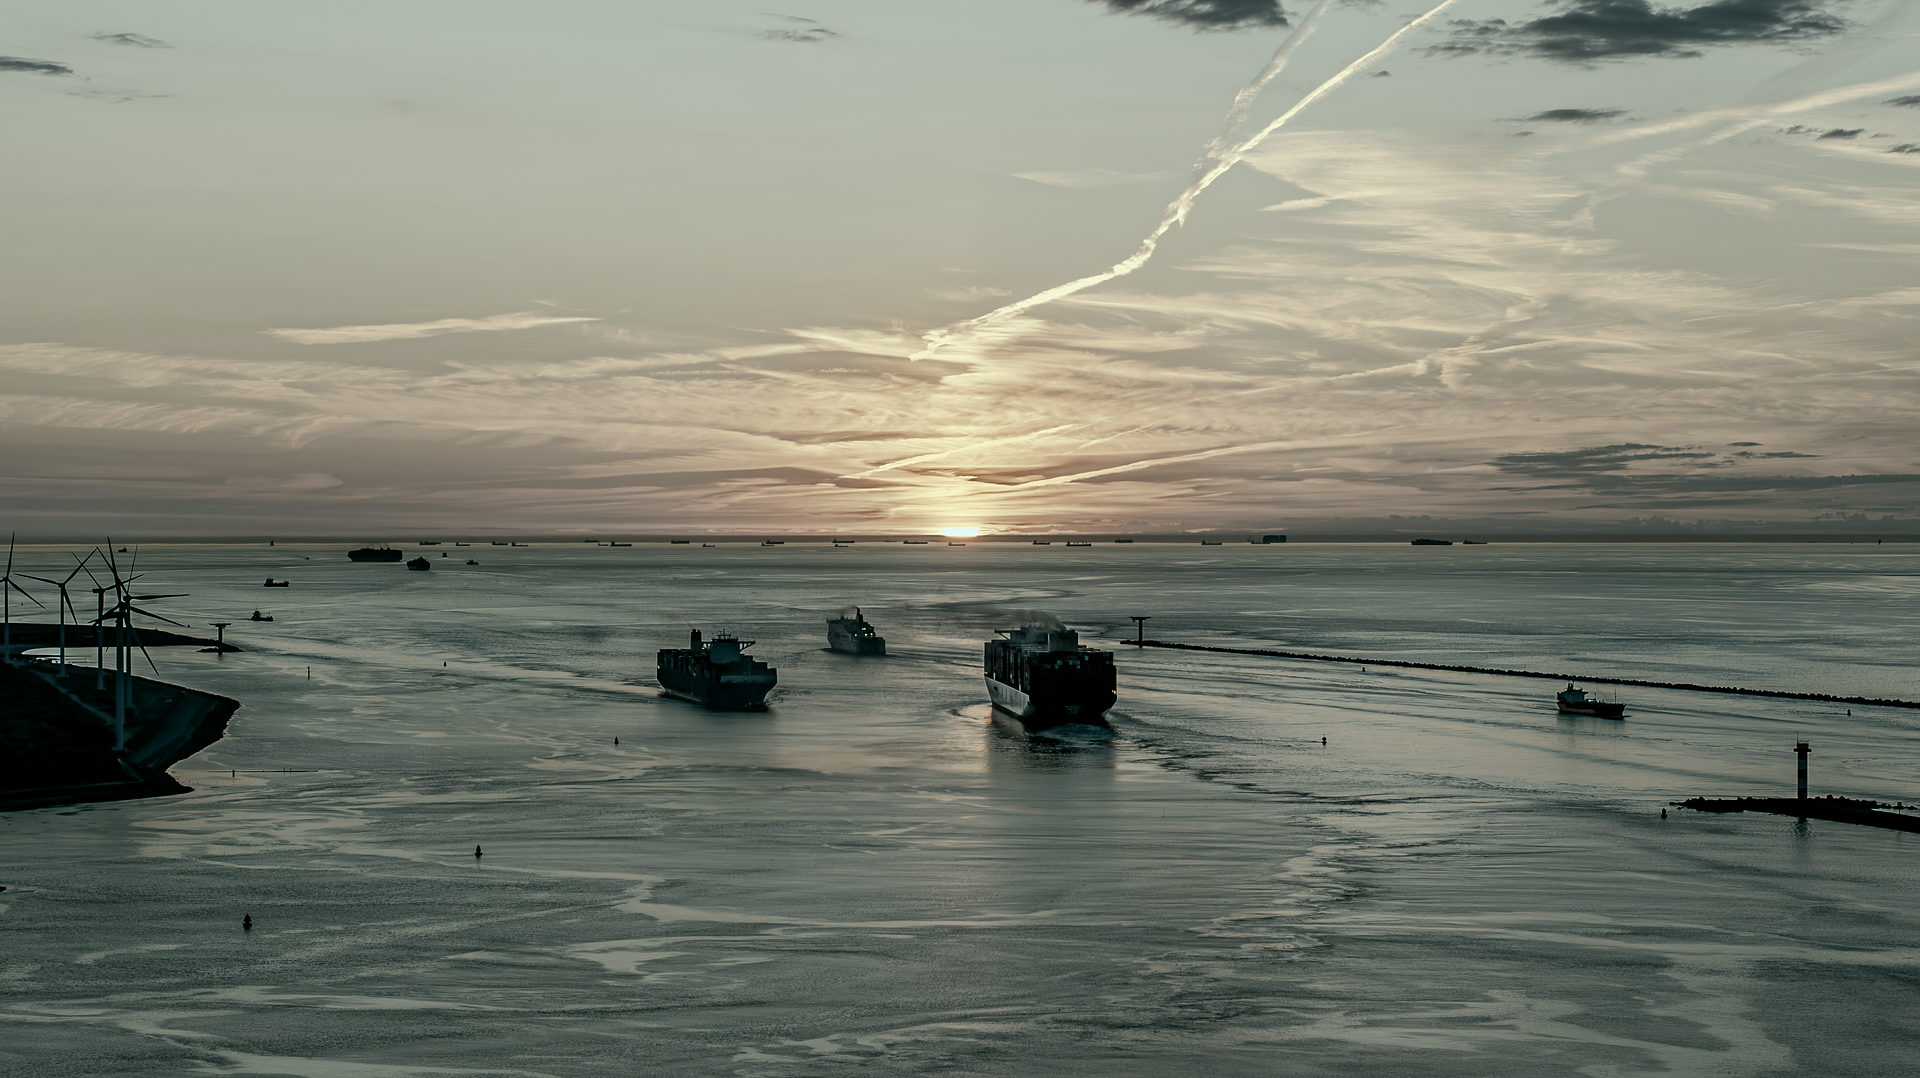
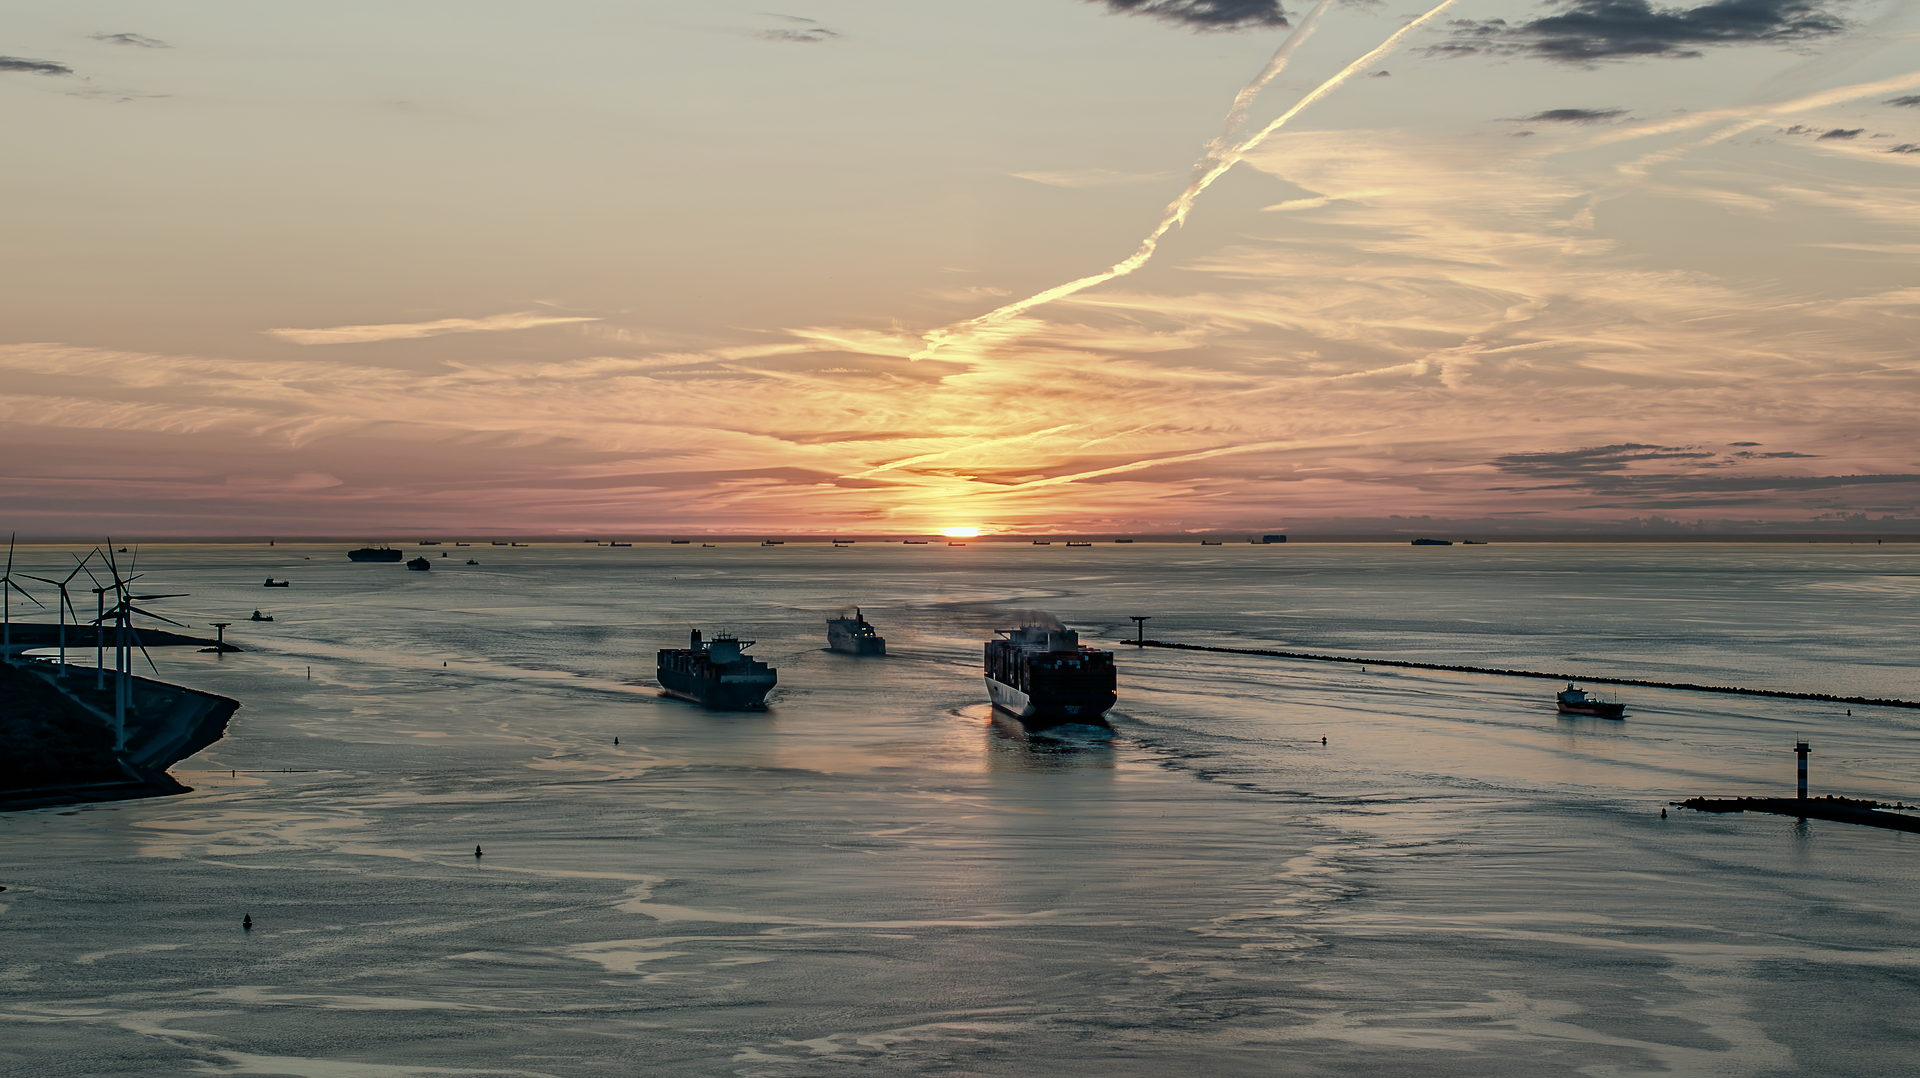
Hero wash lightened (option 2), band tint halved, css v=20261026i

diff --git a/index.html b/index.html
@@ -23,7 +23,7 @@
 <meta name="theme-color" content="#0B2018">
 <link rel="alternate" hreflang="nl" href="index-nl.html">
 <link rel="stylesheet" href="https://fonts.googleapis.com/css2?family=Fira+Sans+Condensed:wght@500;700&family=Fira+Sans:wght@400;500;700&display=swap">
-<link rel="stylesheet" href="styles.css?v=20261026h">
+<link rel="stylesheet" href="styles.css?v=20261026i">
 <script type="application/ld+json">
 {"@context":"https://schema.org","@graph":[
  {"@type":"Organization","@id":"https://www.librashipping.nl/#org","name":"Libra Shipping B.V.","legalName":"Libra Shipping B.V.","url":"https://www.librashipping.nl/","logo":"https://www.librashipping.nl/assets/og-image-2.jpg","foundingDate":"1976","vatID":"NL003589390B01","email":"chartering@librashipping.nl","telephone":"+31180441151",

diff --git a/index-nl.html b/index-nl.html
@@ -23,7 +23,7 @@
 <meta name="theme-color" content="#0B2018">
 <link rel="alternate" hreflang="en" href="index.html">
 <link rel="stylesheet" href="https://fonts.googleapis.com/css2?family=Fira+Sans+Condensed:wght@500;700&family=Fira+Sans:wght@400;500;700&display=swap">
-<link rel="stylesheet" href="styles.css?v=20261026h">
+<link rel="stylesheet" href="styles.css?v=20261026i">
 <script type="application/ld+json">
 {"@context":"https://schema.org","@graph":[
  {"@type":"Organization","@id":"https://www.librashipping.nl/#org","name":"Libra Shipping B.V.","legalName":"Libra Shipping B.V.","url":"https://www.librashipping.nl/","logo":"https://www.librashipping.nl/assets/og-image-2.jpg","foundingDate":"1976","vatID":"NL003589390B01","email":"chartering@librashipping.nl","telephone":"+31180441151",

diff --git a/styles.css b/styles.css
@@ -118,7 +118,7 @@ section.band{background:var(--mist)}
 .hero .media > img{width:100%;height:100%;object-fit:cover;display:block}
 .hero .media::after{
   content:"";position:absolute;inset:0;
-  background:linear-gradient(to top,rgba(11,32,24,.93) 0%,rgba(11,32,24,.70) 42%,rgba(11,32,24,.22) 100%);
+  background:linear-gradient(to top,rgba(11,32,24,.80) 0%,rgba(11,32,24,.38) 45%,rgba(11,32,24,.06) 100%);
 }
 .hero .wrap{
   position:relative;z-index:1;width:100%;

diff --git a/chartering.html b/chartering.html
@@ -23,7 +23,7 @@
 <meta name="theme-color" content="#0B2018">
 <link rel="alternate" hreflang="nl" href="chartering-nl.html">
 <link rel="stylesheet" href="https://fonts.googleapis.com/css2?family=Fira+Sans+Condensed:wght@500;700&family=Fira+Sans:wght@400;500;700&display=swap">
-<link rel="stylesheet" href="styles.css?v=20261026h">
+<link rel="stylesheet" href="styles.css?v=20261026i">
 </head>
 <body>
 <header class="site-head">

diff --git a/conditions.html b/conditions.html
@@ -23,7 +23,7 @@
 <meta name="theme-color" content="#0B2018">
 <link rel="alternate" hreflang="nl" href="conditions-nl.html">
 <link rel="stylesheet" href="https://fonts.googleapis.com/css2?family=Fira+Sans+Condensed:wght@500;700&family=Fira+Sans:wght@400;500;700&display=swap">
-<link rel="stylesheet" href="styles.css?v=20261026h">
+<link rel="stylesheet" href="styles.css?v=20261026i">
 </head>
 <body>
 <header class="site-head">

diff --git a/disclaimer.html b/disclaimer.html
@@ -23,7 +23,7 @@
 <meta name="theme-color" content="#0B2018">
 <link rel="alternate" hreflang="nl" href="disclaimer-nl.html">
 <link rel="stylesheet" href="https://fonts.googleapis.com/css2?family=Fira+Sans+Condensed:wght@500;700&family=Fira+Sans:wght@400;500;700&display=swap">
-<link rel="stylesheet" href="styles.css?v=20261026h">
+<link rel="stylesheet" href="styles.css?v=20261026i">
 </head>
 <body>
 <header class="site-head">

diff --git a/chartering-nl.html b/chartering-nl.html
@@ -23,7 +23,7 @@
 <meta name="theme-color" content="#0B2018">
 <link rel="alternate" hreflang="en" href="chartering.html">
 <link rel="stylesheet" href="https://fonts.googleapis.com/css2?family=Fira+Sans+Condensed:wght@500;700&family=Fira+Sans:wght@400;500;700&display=swap">
-<link rel="stylesheet" href="styles.css?v=20261026h">
+<link rel="stylesheet" href="styles.css?v=20261026i">
 </head>
 <body>
 <header class="site-head">

diff --git a/conditions-nl.html b/conditions-nl.html
@@ -23,7 +23,7 @@
 <meta name="theme-color" content="#0B2018">
 <link rel="alternate" hreflang="en" href="conditions.html">
 <link rel="stylesheet" href="https://fonts.googleapis.com/css2?family=Fira+Sans+Condensed:wght@500;700&family=Fira+Sans:wght@400;500;700&display=swap">
-<link rel="stylesheet" href="styles.css?v=20261026h">
+<link rel="stylesheet" href="styles.css?v=20261026i">
 </head>
 <body>
 <header class="site-head">

diff --git a/contact.html b/contact.html
@@ -23,7 +23,7 @@
 <meta name="theme-color" content="#0B2018">
 <link rel="alternate" hreflang="nl" href="contact-nl.html">
 <link rel="stylesheet" href="https://fonts.googleapis.com/css2?family=Fira+Sans+Condensed:wght@500;700&family=Fira+Sans:wght@400;500;700&display=swap">
-<link rel="stylesheet" href="styles.css?v=20261026h">
+<link rel="stylesheet" href="styles.css?v=20261026i">
 </head>
 <body>
 <header class="site-head">

diff --git a/disclaimer-nl.html b/disclaimer-nl.html
@@ -23,7 +23,7 @@
 <meta name="theme-color" content="#0B2018">
 <link rel="alternate" hreflang="en" href="disclaimer.html">
 <link rel="stylesheet" href="https://fonts.googleapis.com/css2?family=Fira+Sans+Condensed:wght@500;700&family=Fira+Sans:wght@400;500;700&display=swap">
-<link rel="stylesheet" href="styles.css?v=20261026h">
+<link rel="stylesheet" href="styles.css?v=20261026i">
 </head>
 <body>
 <header class="site-head">

diff --git a/privacy.html b/privacy.html
@@ -23,7 +23,7 @@
 <meta name="theme-color" content="#0B2018">
 <link rel="alternate" hreflang="nl" href="privacy-nl.html">
 <link rel="stylesheet" href="https://fonts.googleapis.com/css2?family=Fira+Sans+Condensed:wght@500;700&family=Fira+Sans:wght@400;500;700&display=swap">
-<link rel="stylesheet" href="styles.css?v=20261026h">
+<link rel="stylesheet" href="styles.css?v=20261026i">
 </head>
 <body>
 <header class="site-head">

diff --git a/agency.html b/agency.html
@@ -23,7 +23,7 @@
 <meta name="theme-color" content="#0B2018">
 <link rel="alternate" hreflang="nl" href="agency-nl.html">
 <link rel="stylesheet" href="https://fonts.googleapis.com/css2?family=Fira+Sans+Condensed:wght@500;700&family=Fira+Sans:wght@400;500;700&display=swap">
-<link rel="stylesheet" href="styles.css?v=20261026h">
+<link rel="stylesheet" href="styles.css?v=20261026i">
 </head>
 <body>
 <header class="site-head">
